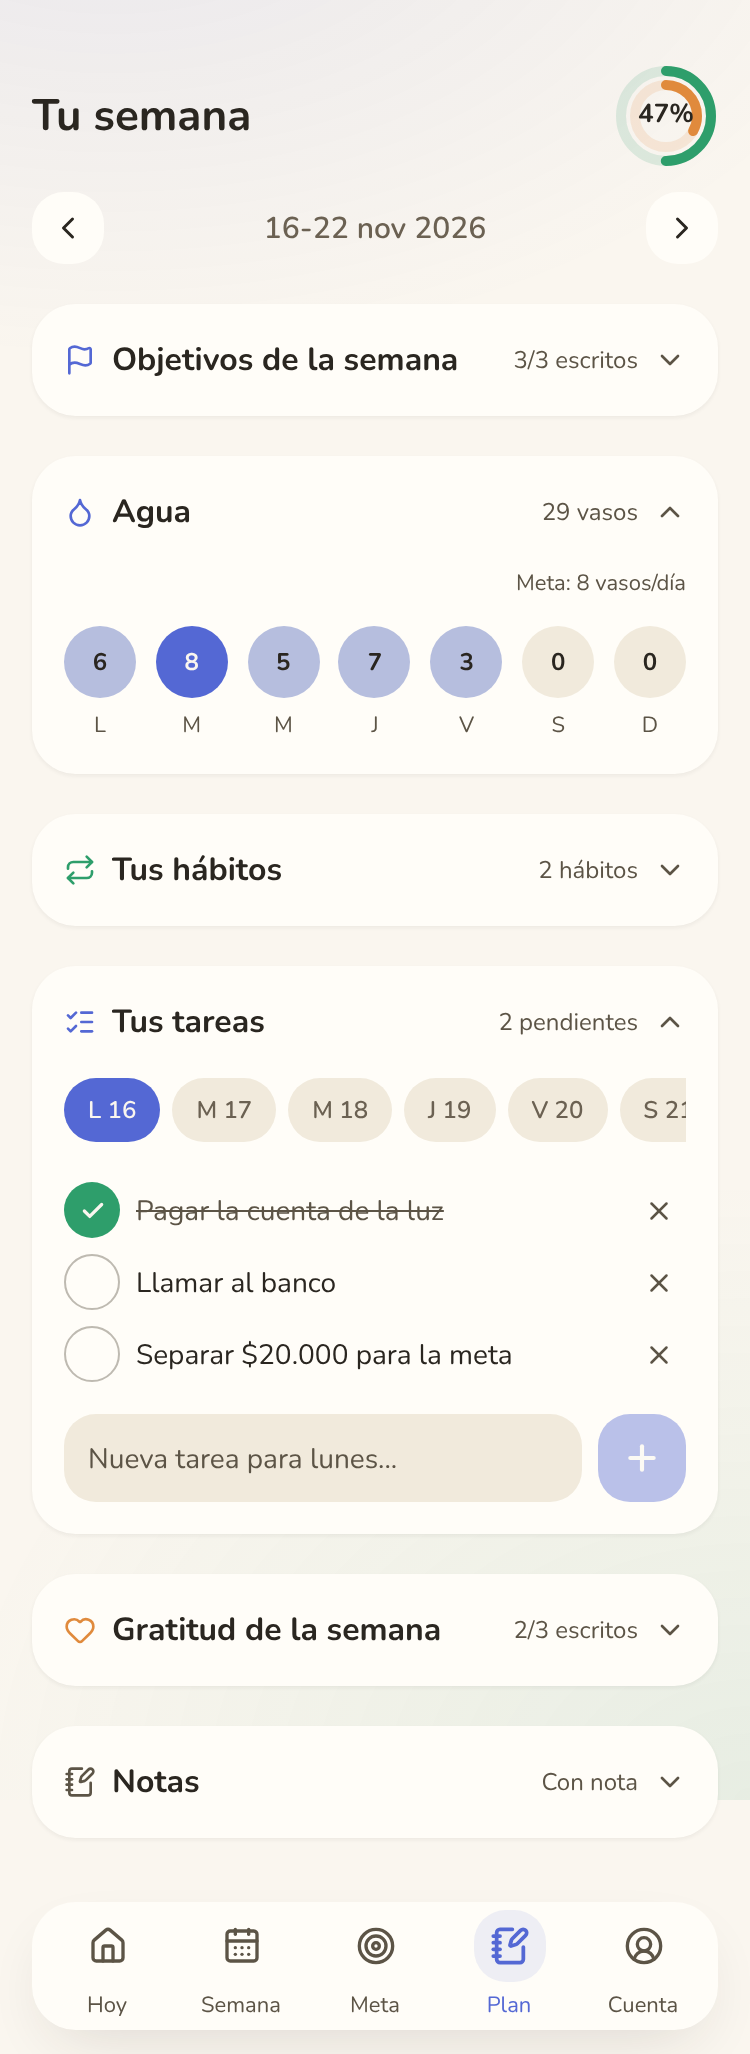
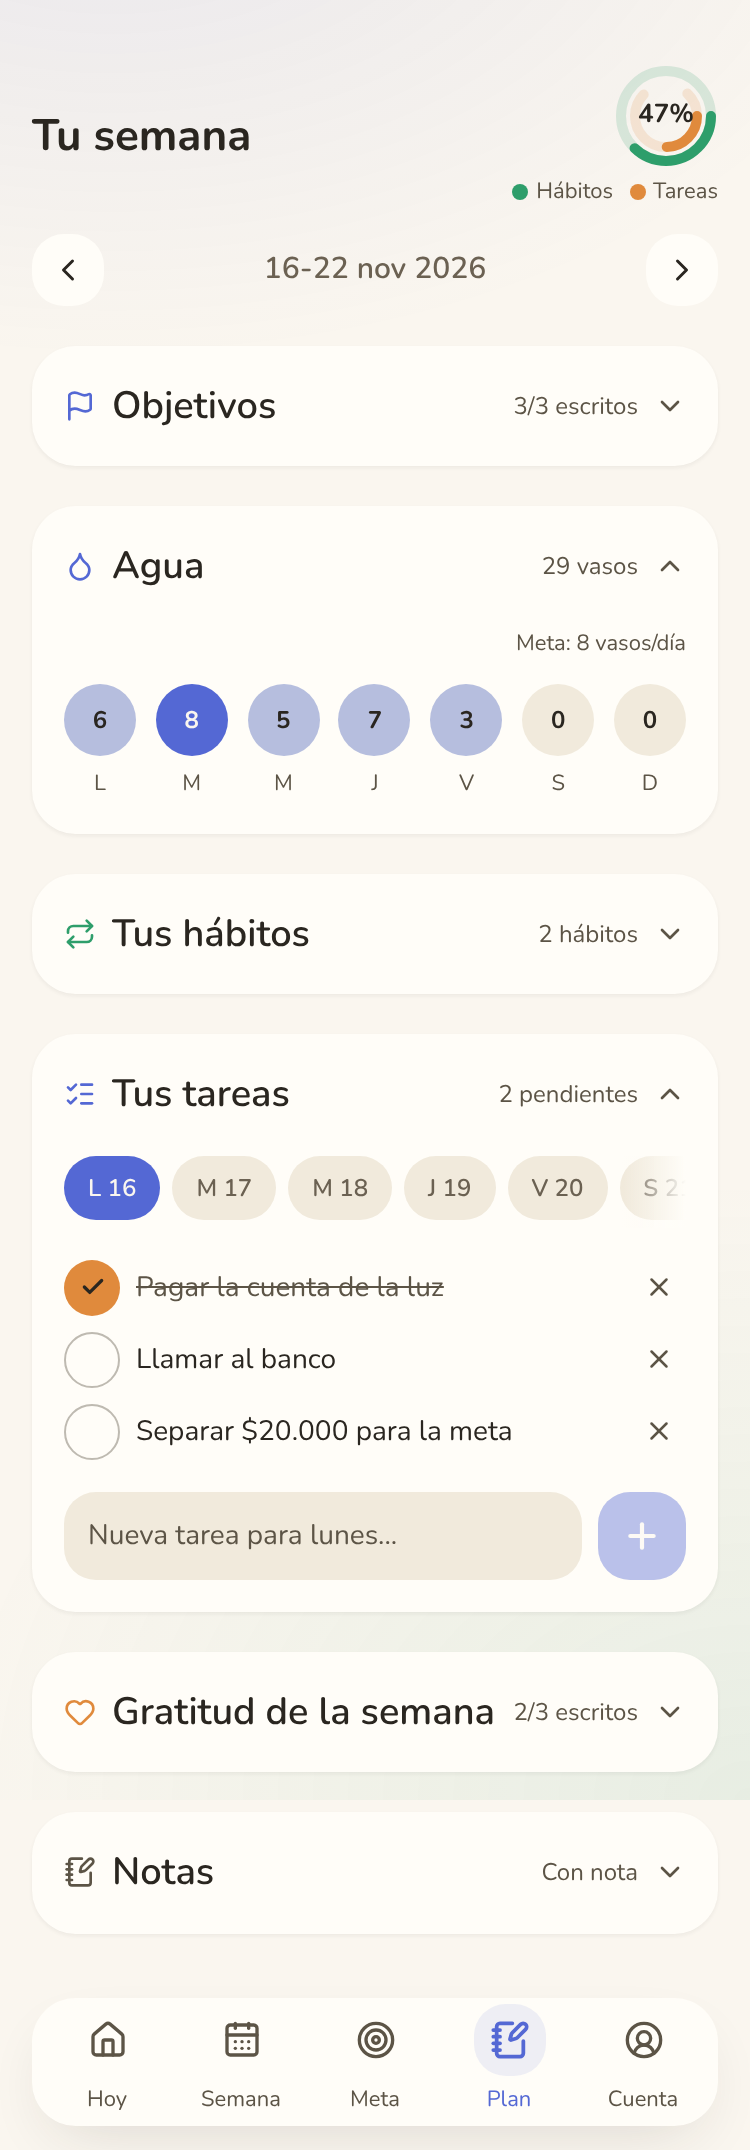
fix: ronda 4 de correcciones del revisor-visual en Planeador Semanal
Contraste del aviso de error y los botones "Borrar" (texto oscuro sobre
naranja, antes casi blanco), el check de tarea hecha pasa a naranja para
no contradecir el color del anillo, anillo con la abertura real de 270°
del logo, títulos de tarjeta dentro de la escala tipográfica documentada
y degradé de scroll en los chips de día.

Claude-Session: https://claude.ai/code/session_013BYtLeMwZuWh58hVzwvyD5

diff --git a/app/app/planeador/page.tsx b/app/app/planeador/page.tsx
@@ -77,11 +77,20 @@ function useVariantes(): { contenedor: Variants; item: Variants } {
   };
 }
 
+// Mismas constantes EXACTAS de components/RespiraMark.tsx — ronda 3 del revisor-visual marcó
+// que un barrido 0-360° se lee como un "Activity Ring" genérico, no como el logo real (que
+// SIEMPRE tiene una abertura de 270°, nunca un círculo cerrado). Reusar los mismos números hace
+// que este anillo sea reconociblemente "el mismo dispositivo", solo con datos en vez de decorar.
+const BARRIDO_ANILLO = 0.75;
+const OFFSET_EXTERIOR_ANILLO = 0.375;
+const OFFSET_INTERIOR_ANILLO = 0.875;
+
 /* ── <AnilloSemana> — el dispositivo ownable de FICHA-ARTE (el doble anillo de RespiraMark:
-   verde afuera, naranja adentro) llevado a un indicador de progreso real, no decorativo: el
-   anillo EXTERIOR verde es el % de hábitos marcados esta semana, el INTERIOR naranja el % de
-   tareas hechas — mismos 2 colores y mismo anidado que el logo, ahora cargando datos reales en
-   vez de ser un círculo de progreso genérico de un solo color. ── */
+   verde afuera, naranja adentro), con la MISMA abertura de 270° que el logo real, llevado a un
+   indicador de progreso: el anillo EXTERIOR verde es el % de hábitos marcados esta semana, el
+   INTERIOR naranja el % de tareas hechas — el check de "tarea hecha" en <TareasCard> usa el
+   mismo naranja, para que el color no contradiga lo que mide. Una leyenda chica debajo aclara
+   qué mide cada color (antes no había ninguna). ── */
 function AnilloSemana({
   porcentajeHabitos,
   porcentajeTareas,
@@ -97,16 +106,38 @@ function AnilloSemana({
   const grosor = 5;
   const rExterior = centro - grosor / 2 - 1;
   const rInterior = rExterior - grosor - 2;
-  const circExterior = 2 * Math.PI * rExterior;
-  const circInterior = 2 * Math.PI * rInterior;
-  const avanceExterior = (Math.min(100, Math.max(0, porcentajeHabitos)) / 100) * circExterior;
-  const avanceInterior = (Math.min(100, Math.max(0, porcentajeTareas)) / 100) * circInterior;
+  const avanceExterior = BARRIDO_ANILLO * (Math.min(100, Math.max(0, porcentajeHabitos)) / 100);
+  const avanceInterior = BARRIDO_ANILLO * (Math.min(100, Math.max(0, porcentajeTareas)) / 100);
 
   return (
-    <div className="relative shrink-0" style={{ width: tamano, height: tamano }} role="img" aria-label={`${porcentajeTotal}% de tu semana cumplido`}>
+    <div className="relative shrink-0" style={{ width: tamano, height: tamano }} role="img" aria-label={`${porcentajeTotal}% de tu semana — ${porcentajeHabitos}% de hábitos, ${porcentajeTareas}% de tareas`}>
       <svg width={tamano} height={tamano} viewBox={`0 0 ${tamano} ${tamano}`} aria-hidden="true">
-        <circle cx={centro} cy={centro} r={rExterior} stroke="color-mix(in oklab, var(--accent-2) 14%, transparent)" strokeWidth={grosor} fill="none" />
-        <circle cx={centro} cy={centro} r={rInterior} stroke="color-mix(in oklab, var(--accent-3) 14%, transparent)" strokeWidth={grosor} fill="none" />
+        {/* pistas (el resto de la abertura de 270°, en tono tenue) */}
+        <circle
+          cx={centro}
+          cy={centro}
+          r={rExterior}
+          stroke="color-mix(in oklab, var(--accent-2) 16%, transparent)"
+          strokeWidth={grosor}
+          strokeLinecap="round"
+          fill="none"
+          pathLength={1}
+          strokeDasharray={`${BARRIDO_ANILLO} ${1 - BARRIDO_ANILLO}`}
+          strokeDashoffset={-OFFSET_EXTERIOR_ANILLO}
+        />
+        <circle
+          cx={centro}
+          cy={centro}
+          r={rInterior}
+          stroke="color-mix(in oklab, var(--accent-3) 16%, transparent)"
+          strokeWidth={grosor}
+          strokeLinecap="round"
+          fill="none"
+          pathLength={1}
+          strokeDasharray={`${BARRIDO_ANILLO} ${1 - BARRIDO_ANILLO}`}
+          strokeDashoffset={-OFFSET_INTERIOR_ANILLO}
+        />
+        {/* progreso real, mismo punto de partida que el logo */}
         <motion.circle
           cx={centro}
           cy={centro}
@@ -115,10 +146,9 @@ function AnilloSemana({
           strokeWidth={grosor}
           strokeLinecap="round"
           fill="none"
-          strokeDasharray={circExterior}
-          transform={`rotate(-90 ${centro} ${centro})`}
-          initial={{ strokeDashoffset: circExterior }}
-          animate={{ strokeDashoffset: circExterior - avanceExterior }}
+          style={{ pathOffset: OFFSET_EXTERIOR_ANILLO, pathSpacing: 1 - BARRIDO_ANILLO }}
+          initial={{ pathLength: reduce ? avanceExterior : 0 }}
+          animate={{ pathLength: avanceExterior }}
           transition={{ duration: reduce ? 0 : 0.7, ease: [0.16, 1, 0.3, 1] }}
         />
         <motion.circle
@@ -129,10 +159,9 @@ function AnilloSemana({
           strokeWidth={grosor}
           strokeLinecap="round"
           fill="none"
-          strokeDasharray={circInterior}
-          transform={`rotate(-90 ${centro} ${centro})`}
-          initial={{ strokeDashoffset: circInterior }}
-          animate={{ strokeDashoffset: circInterior - avanceInterior }}
+          style={{ pathOffset: OFFSET_INTERIOR_ANILLO, pathSpacing: 1 - BARRIDO_ANILLO }}
+          initial={{ pathLength: reduce ? avanceInterior : 0 }}
+          animate={{ pathLength: avanceInterior }}
           transition={{ duration: reduce ? 0 : 0.7, delay: reduce ? 0 : 0.08, ease: [0.16, 1, 0.3, 1] }}
         />
       </svg>
@@ -282,14 +311,26 @@ export default function PlaneadorPage() {
       <motion.header variants={item}>
         <div className="flex items-center justify-between gap-3">
           <h1 className="text-[22px] font-bold [font-family:var(--font-display)]">Tu semana</h1>
-          <AnilloSemana porcentajeHabitos={porcentajeHabitos} porcentajeTareas={porcentajeTareas} porcentajeTotal={porcentajeSemana} />
+          <div className="flex flex-col items-end gap-1">
+            <AnilloSemana porcentajeHabitos={porcentajeHabitos} porcentajeTareas={porcentajeTareas} porcentajeTotal={porcentajeSemana} />
+            <div className="flex gap-2 text-[11px] text-[var(--text-tertiary)]">
+              <span className="flex items-center gap-1">
+                <span aria-hidden="true" className="size-2 rounded-full" style={{ background: 'var(--accent-2)' }} />
+                Hábitos
+              </span>
+              <span className="flex items-center gap-1">
+                <span aria-hidden="true" className="size-2 rounded-full" style={{ background: 'var(--accent-3)' }} />
+                Tareas
+              </span>
+            </div>
+          </div>
         </div>
         <AnimatePresence>
           {porcentajeSemana === 100 && (
             <motion.div
               initial={{ opacity: 0, scale: 0.8, height: 0 }}
               animate={{ opacity: 1, scale: 1, height: 'auto' }}
-              transition={{ type: 'spring', duration: 0.5, bounce: 0.4 }}
+              transition={{ type: 'spring', duration: 0.5, bounce: 0.1 }}
               className="mt-2 flex items-center gap-2 overflow-hidden rounded-[var(--radius-button)] bg-[color-mix(in_oklab,var(--accent-2)_12%,transparent)] px-3 py-2"
             >
               <PartyPopper size={15} strokeWidth={2} color="var(--accent-2-text)" aria-hidden="true" />
@@ -339,8 +380,8 @@ export default function PlaneadorPage() {
                 transition={{ duration: 0.2 }}
                 className="pointer-events-auto flex items-center gap-2 rounded-[var(--radius-button)] bg-[var(--accent-3)] px-3 py-2.5 shadow-[var(--shadow-2)]"
               >
-                <WifiOff size={15} strokeWidth={2} color="var(--bg)" aria-hidden="true" />
-                <span className="text-[13px] font-semibold text-[var(--bg)]">No se pudo guardar. Revisa tu conexión e intenta de nuevo.</span>
+                <WifiOff size={15} strokeWidth={2} color="var(--text-primary)" aria-hidden="true" />
+                <span className="text-[13px] font-semibold text-[var(--text-primary)]">No se pudo guardar. Revisa tu conexión e intenta de nuevo.</span>
               </motion.div>
             )}
           </AnimatePresence>
@@ -348,7 +389,7 @@ export default function PlaneadorPage() {
       </div>
 
       <ObjetivosCard
-        titulo="Objetivos de la semana"
+        titulo="Objetivos"
         icono={Flag}
         colorVar="var(--accent)"
         placeholder={(i) => `Objetivo ${i + 1}`}
@@ -422,7 +463,7 @@ function Tarjeta({
       >
         <span className="flex min-w-0 items-center gap-2">
           <Icono size={16} strokeWidth={2} color={colorVar} aria-hidden="true" />
-          <span className="truncate text-[16px] font-bold text-[var(--text-primary)] [font-family:var(--font-display)]">{titulo}</span>
+          <span className="truncate text-[19px] font-semibold text-[var(--text-primary)] [font-family:var(--font-display)]">{titulo}</span>
         </span>
         <span className="flex shrink-0 items-center gap-2">
           <span className="text-[12px] text-[var(--text-tertiary)]">{resumen}</span>
@@ -709,7 +750,7 @@ function HabitosCard({
                     whileTap={TAP}
                     transition={TAP_TRANSICION}
                     onClick={() => borrarHabito(h.id)}
-                    className="h-7 rounded-[var(--radius-button)] bg-[var(--accent-3)] px-2 text-[12px] font-semibold text-[var(--bg)] [touch-action:manipulation]"
+                    className="h-7 rounded-[var(--radius-button)] bg-[var(--accent-3)] px-2 text-[12px] font-semibold text-[var(--text-primary)] [touch-action:manipulation]"
                   >
                     Borrar
                   </motion.button>
@@ -855,25 +896,32 @@ function TareasCard({
       abiertaInicial
       item={item}
     >
-      <div role="tablist" aria-label="Elegir día" className="flex gap-1.5 overflow-x-auto pb-1">
-        {fechas.map((iso, i) => {
-          const activo = i === diaIndex;
-          return (
-            <motion.button
-              key={iso}
-              type="button"
-              whileTap={TAP}
-              transition={TAP_TRANSICION}
-              role="tab"
-              aria-selected={activo}
-              onClick={() => onCambiarDia(i)}
-              className="flex h-8 shrink-0 items-center rounded-full px-3 text-[12px] font-semibold [touch-action:manipulation]"
-              style={{ background: activo ? 'var(--accent)' : 'var(--surface-2)', color: activo ? 'var(--bg)' : 'var(--text-secondary)' }}
-            >
-              {inicialDia(i)} {Number(iso.slice(8, 10))}
-            </motion.button>
-          );
-        })}
+      <div className="relative">
+        <div role="tablist" aria-label="Elegir día" className="flex gap-1.5 overflow-x-auto pb-1">
+          {fechas.map((iso, i) => {
+            const activo = i === diaIndex;
+            return (
+              <motion.button
+                key={iso}
+                type="button"
+                whileTap={TAP}
+                transition={TAP_TRANSICION}
+                role="tab"
+                aria-selected={activo}
+                onClick={() => onCambiarDia(i)}
+                className="flex h-8 shrink-0 items-center rounded-full px-3 text-[12px] font-semibold [touch-action:manipulation]"
+                style={{ background: activo ? 'var(--accent)' : 'var(--surface-2)', color: activo ? 'var(--bg)' : 'var(--text-secondary)' }}
+              >
+                {inicialDia(i)} {Number(iso.slice(8, 10))}
+              </motion.button>
+            );
+          })}
+        </div>
+        <div
+          aria-hidden="true"
+          className="pointer-events-none absolute inset-y-0 right-0 w-8"
+          style={{ background: 'linear-gradient(to right, transparent, var(--surface))' }}
+        />
       </div>
 
       <AnimatePresence mode="wait">
@@ -910,7 +958,7 @@ function TareasCard({
                         whileTap={TAP}
                         transition={TAP_TRANSICION}
                         onClick={() => borrar(t.id)}
-                        className="h-7 rounded-[var(--radius-button)] bg-[var(--accent-3)] px-2 text-[12px] font-semibold text-[var(--bg)] [touch-action:manipulation]"
+                        className="h-7 rounded-[var(--radius-button)] bg-[var(--accent-3)] px-2 text-[12px] font-semibold text-[var(--text-primary)] [touch-action:manipulation]"
                       >
                         Borrar
                       </motion.button>
@@ -927,11 +975,11 @@ function TareasCard({
                       aria-label={t.hecho ? `Marcar "${t.texto}" como pendiente` : `Marcar "${t.texto}" como hecha`}
                       className="flex size-7 shrink-0 items-center justify-center rounded-full [touch-action:manipulation]"
                       style={{
-                        background: t.hecho ? 'var(--accent-2)' : 'transparent',
+                        background: t.hecho ? 'var(--accent-3)' : 'transparent',
                         border: t.hecho ? 'none' : '1.5px solid color-mix(in oklab, var(--text-tertiary) 40%, transparent)',
                       }}
                     >
-                      {t.hecho && <Check size={13} strokeWidth={3} color="var(--bg)" aria-hidden="true" />}
+                      {t.hecho && <Check size={13} strokeWidth={3} color="var(--text-primary)" aria-hidden="true" />}
                     </motion.button>
                     <span
                       className={`min-w-0 flex-1 truncate text-[14px] ${

diff --git a/docs/revisiones/paywall-veredicto.md b/docs/revisiones/paywall-veredicto.md
@@ -451,6 +451,14 @@ de 1x1px invisible). Verificado: tsc ✓ build ✓ · probado en producción que
 PageView se dispara limpio. Cero impacto visual — la certificación 37/40·20/20·19/20 sigue
 describiendo correctamente lo que se ve, solo cambió lo que pasa "por detrás" al tocar pagar.
 
+## Cuadragésima octava re-verificación (2026-11-16 — ronda 4 del Planeador Semanal)
+
+El hook marcará `app/app/planeador/page.tsx` y `app/app/layout.tsx` como más nuevos otra vez —
+ronda 4 (contraste del aviso/confirmaciones, anillo con la abertura real de 270°, check de tarea
+coherente con el color del anillo, títulos dentro de la escala catalogada, degradé de scroll en
+los chips de día). `app/paywall/page.tsx` sigue sin importar nada de `app/app/planeador` ni de
+`app/app/layout.tsx` (confirmado por grep). Cero impacto; la certificación LISTA sigue vigente.
+
 ## Cuadragésima séptima re-verificación (2026-11-16 — ronda 3 del Planeador Semanal)
 
 El hook marcará `app/app/planeador/page.tsx` y `app/app/layout.tsx` como más nuevos otra vez —
